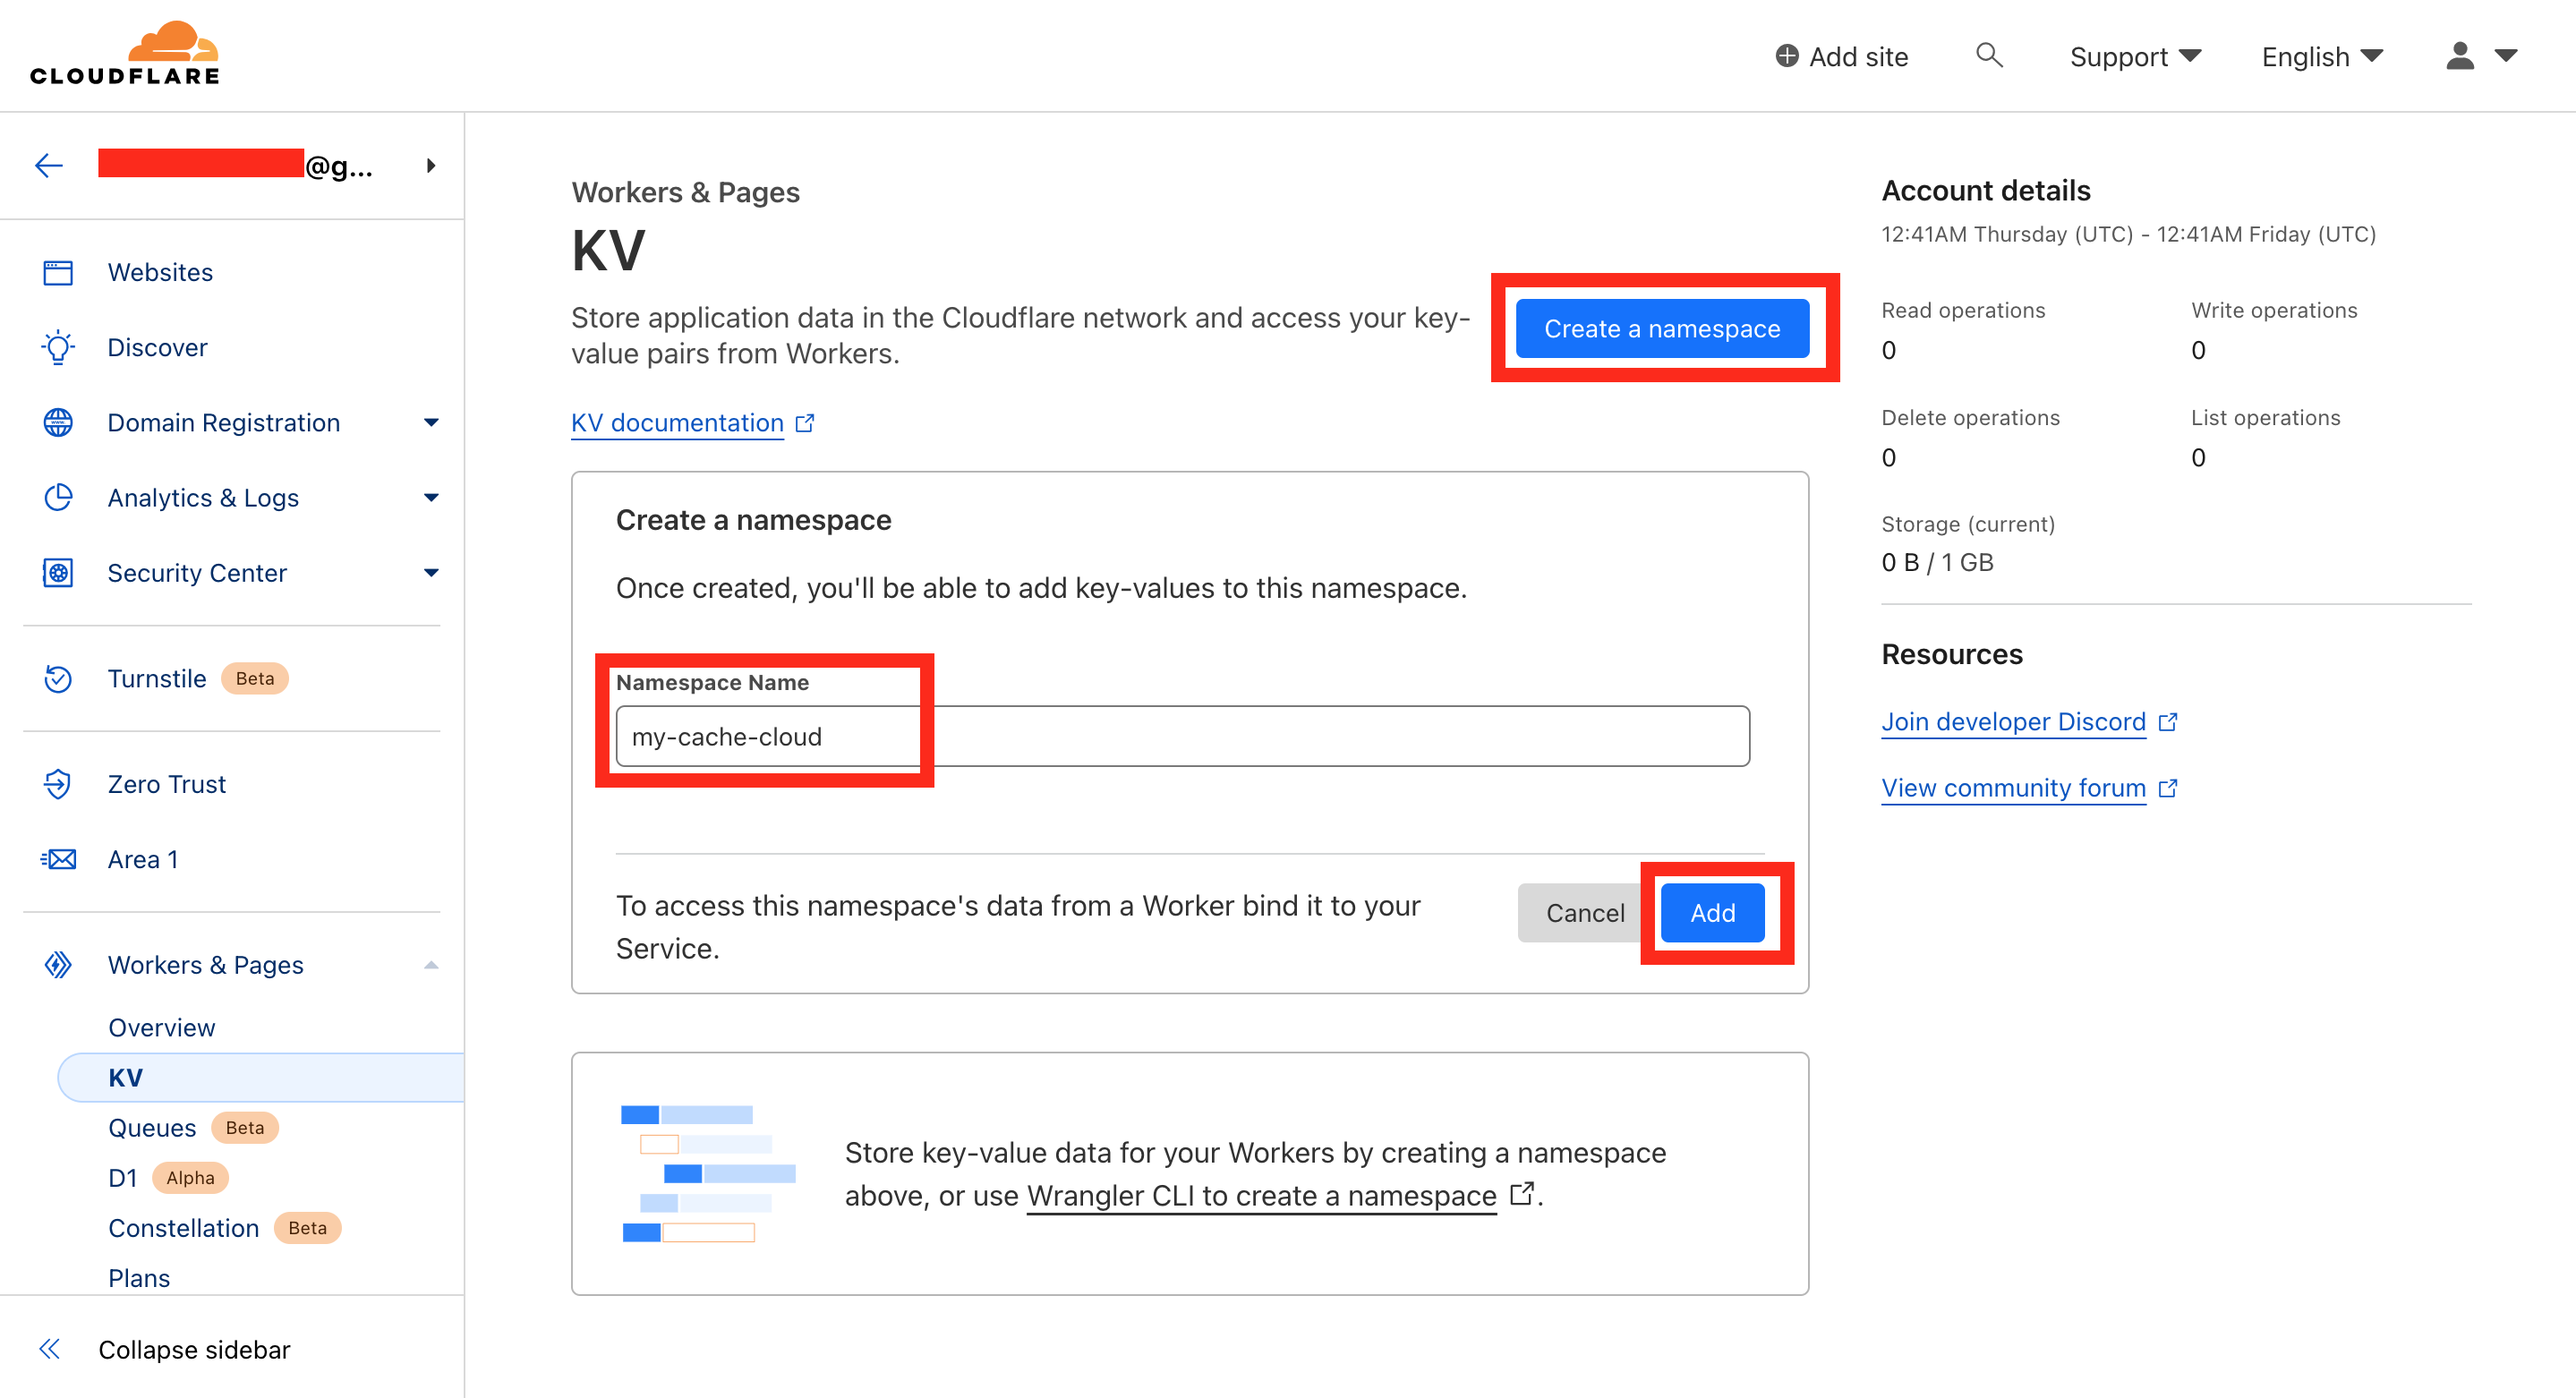
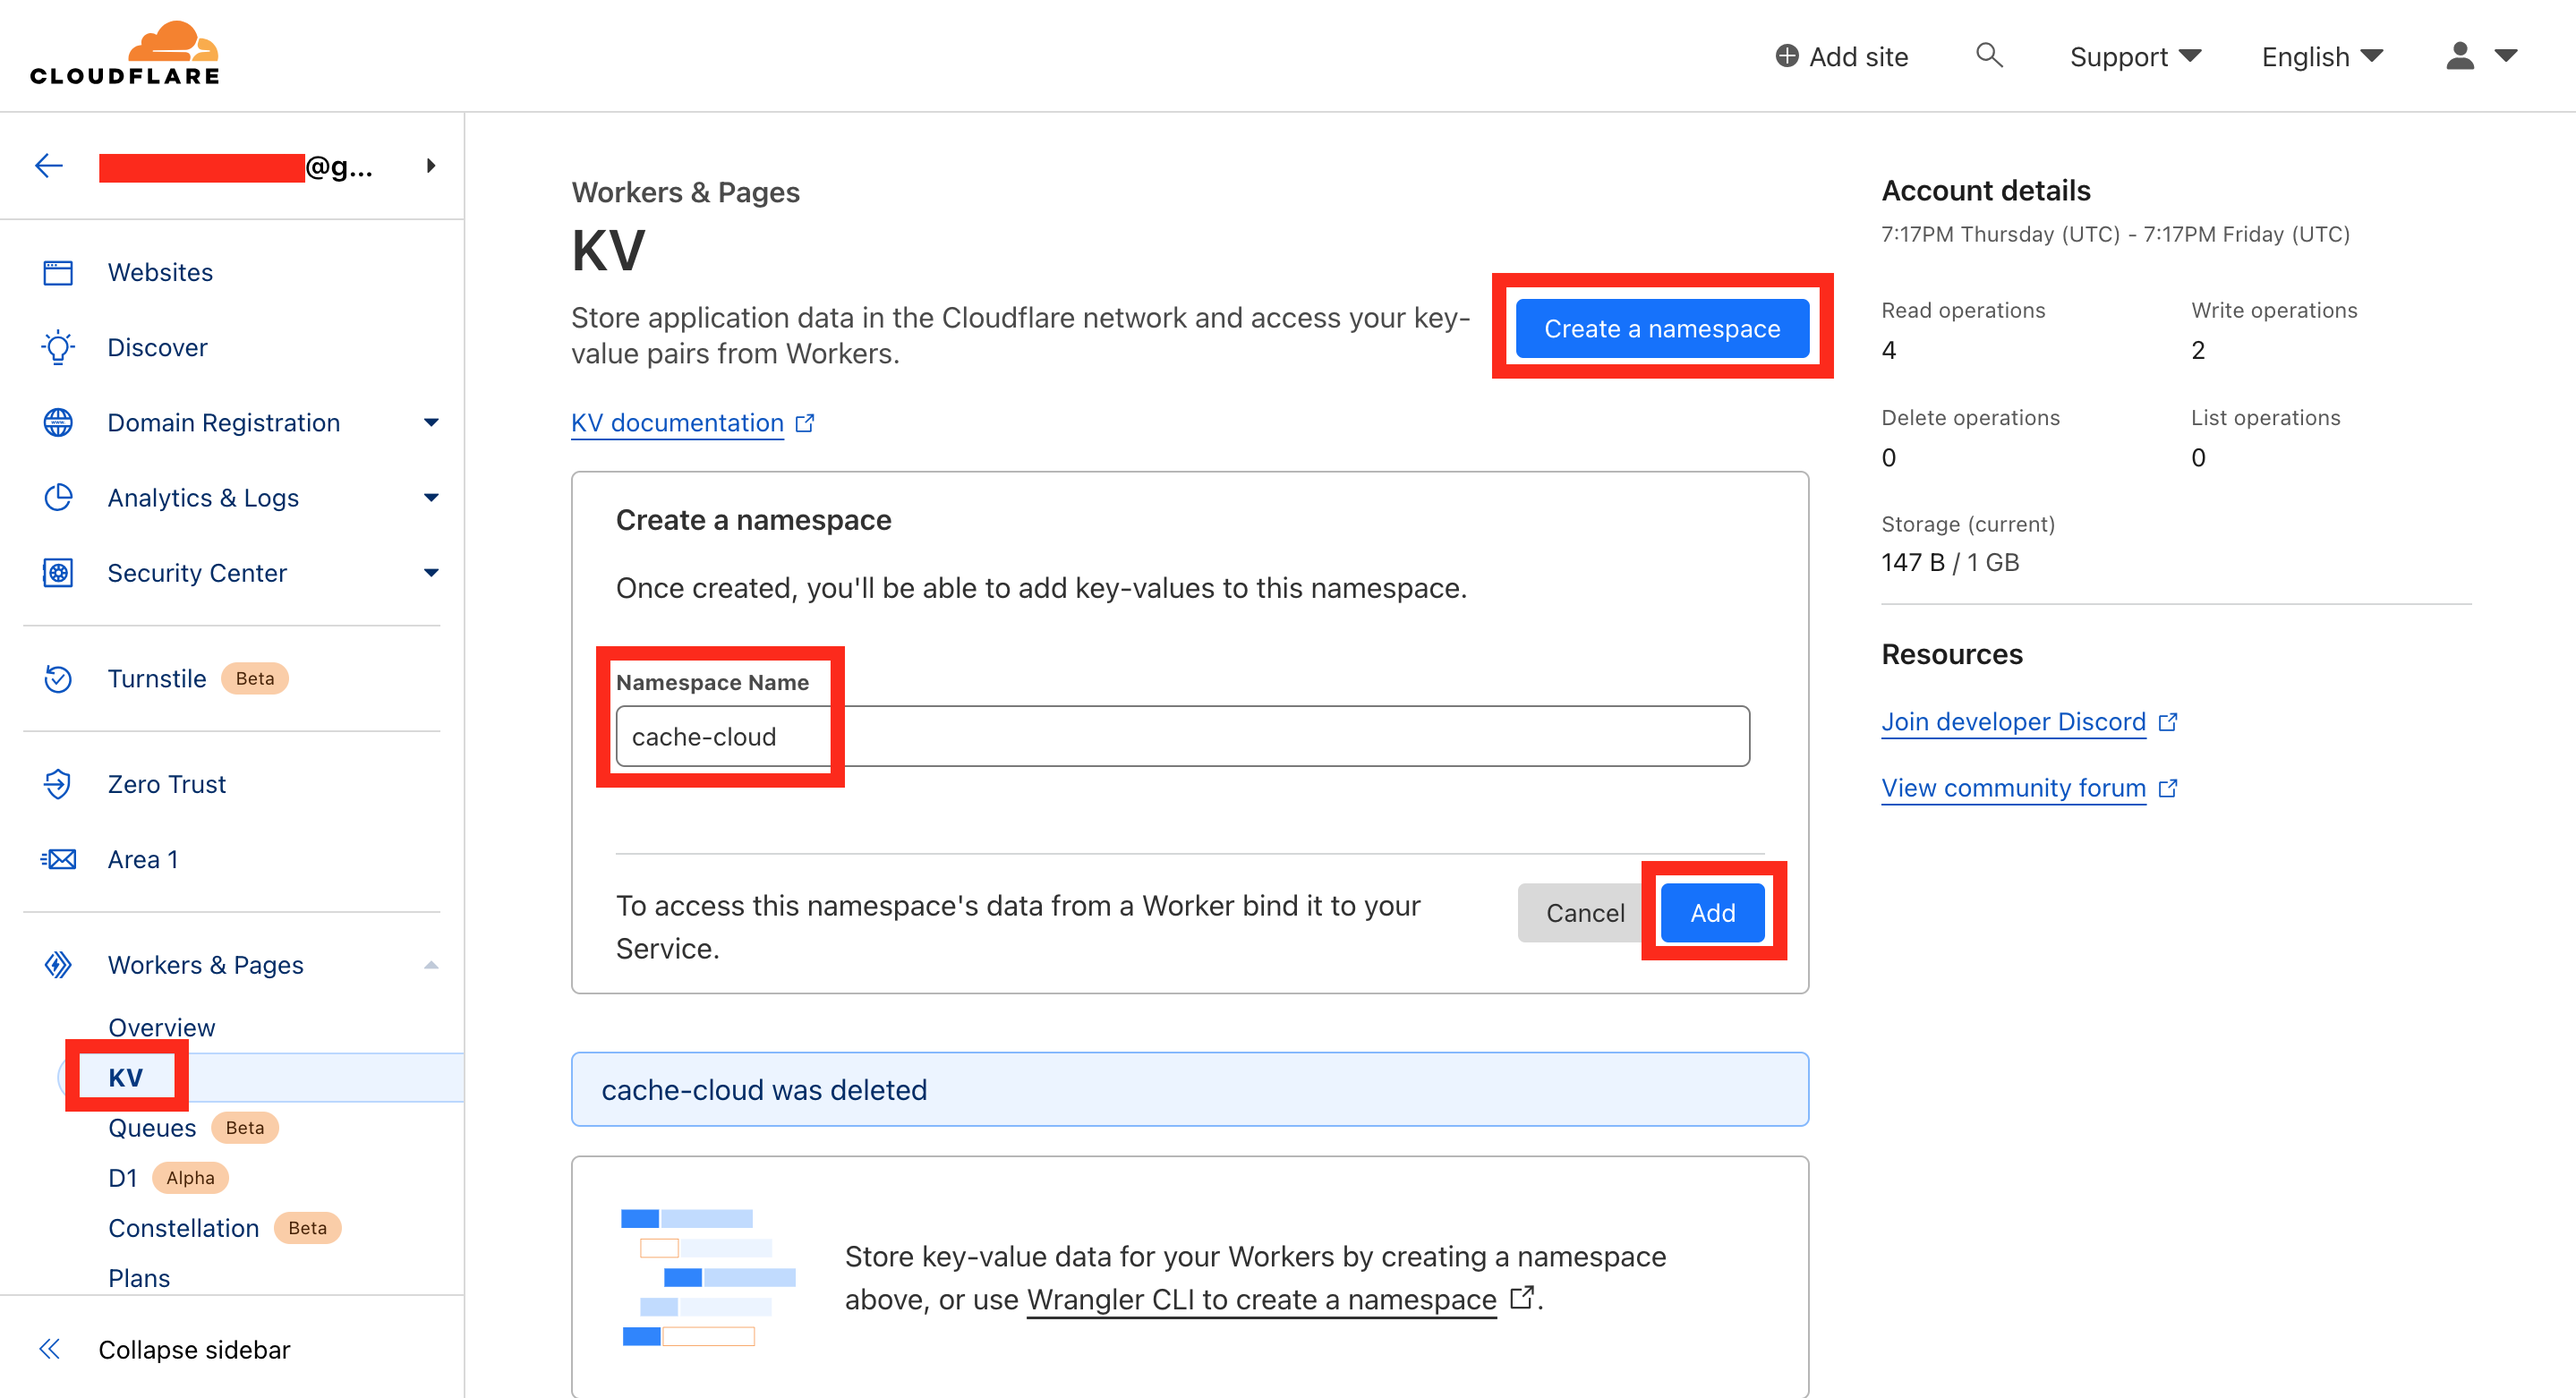
Get started guide

diff --git a/doc/GET-STARTED.md b/doc/GET-STARTED.md
@@ -13,23 +13,25 @@
 
 #### 2.1. Configure Cloudflare Workers
 
-1. Click **"Overview"** > **"Create Worker"**
+1. Click **"Overview"** > Click **"Create Worker"**
 
 ![step 1](https://github.com/patrick-kw-chiu/cache-cloud/blob/main/assets/configure-cloudflare-workers-1.png)
 
-2. **"Name"** your subdomain > **"Deploy"**
+2. Name your Worker's subdomain as **"cache-cloud"** > Click **"Deploy"**
 
 ![step 2](https://github.com/patrick-kw-chiu/cache-cloud/blob/main/assets/configure-cloudflare-workers-2.png)
 
 3. Congratulations! Your Worker is deployed to Region: **"Earth"**.
 
-Yes, Earth! It is available in Cloudflare's edge network.
+Yes, Earth! It is available in Cloudflare's global edge network.
+
+The base subdomain is preset by Cloudflare, but you can update it as you wish to. In my case, the base subdomain is **cache-cloud-demo**.
 
 ![step 3](https://github.com/patrick-kw-chiu/cache-cloud/blob/main/assets/configure-cloudflare-workers-3.png)
 
 #### 2.2. Configure KV
 
-1. Click **"KV"** > **"Create a namespace"** > Name your Cache Cloud KV **"Namespace"** > **"Add"**
+1. Click **"KV"** > Click **"Create a namespace"** > Name your KV namespace as **"cache-cloud"** > **"Add"**
 
 ![step 1](https://github.com/patrick-kw-chiu/cache-cloud/blob/main/assets/configure-kv-1.png)
 
@@ -48,7 +50,7 @@ git clone git@github.com:patrick-kw-chiu/cache-cloud.git
 cd ./cache-cloud
 ```
 
-2. Before we deploy to Cloudflare Workers, we need to install relevant package first
+2. Install package - Cloudflare expect the deployed workers script to have all the relevant package
 
 _Note: my current Node.js version is v18.12.1_
 
@@ -75,11 +77,19 @@ Replace the `id` and `preview_id` with the KV id you get in **"Step 2 - Configur
 Login in the terminal > **"Allow"** Wrangler to make changes
 
 ```shell
+# If you have wrangler installed
 wrangler login
+
+# If you don't
+npm run login
 ```
 
 ![step 1](https://github.com/patrick-kw-chiu/cache-cloud/blob/main/assets/deploy-to-cloudflare-workers-1.png)
 
 ```shell
+# If you have wrangler installed
 wrangler deploy
+
+# If you don't
+npm run deploy
 ```
